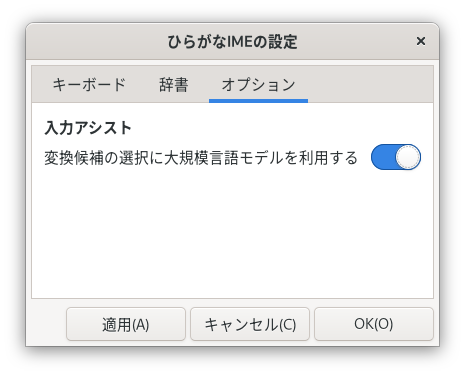
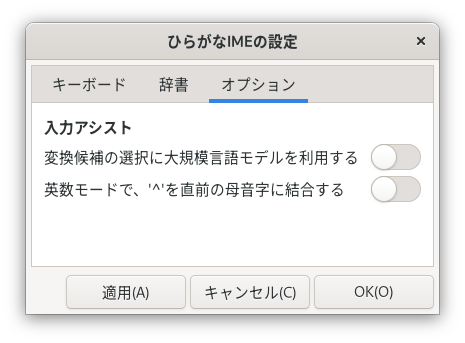
Update screenshots and documents
docs/en/ibus-setup-hiragana_1.png
docs/en/ibus-setup-hiragana_2.png
docs/en/ibus-setup-hiragana_3.png
docs/en/keyboard-menu.png
docs/en/meson.build
docs/en/settings-keyboard.png
docs/ibus-setup-hiragana_1.png
docs/ibus-setup-hiragana_2.png
docs/ibus-setup-hiragana_3.png
docs_md/en/altgr.md
docs_md/en/install.md
docs_md/en/settings.md
docs_md/settings.md

diff --git a/docs_md/settings.md b/docs_md/settings.md
@@ -25,13 +25,13 @@
 
 ![「ひらがなIMEの設定」ウィンドウ](ibus-setup-hiragana_1.png)
 
-　「打うちかた」は、ドロップダウンリストからえらびます。つぎの３種類しゅるいからえらべます。
+　キーボードの打うちかたを「入力にゅうりょく方法ほうほう」ドロップダウンリストからえらびます。つぎの３種類しゅるいからえらべます。
 
-打うちかた | 説明せつめい
+入力にゅうりょく方法ほうほう | 説明せつめい
 ---|---
-[ローマ字じ](roomazi.html#roomazi) | ローマ字じをつかって入力にゅうりょくします。
-[かな(JIS配列はいれつ)](layouts.html#jis) | JISかな配列はいれつをつかって入力にゅうりょくします。
-[<nobr>かな(ニュースティックニー配列はいれつ)</nobr>](layouts.html#new_stickney) | ニュースティックニーかな配列はいれつをつかって入力にゅうりょくします。
+[ローマ字じ](roomazi.html#roomazi) | ローマ字じで入力にゅうりょくします。
+[かな (JIS配列はいれつ)](layouts.html#jis) | JISかな配列はいれつをつかって入力にゅうりょくします。
+[<nobr>かな (ニュースティックニー配列はいれつ)</nobr>](layouts.html#new_stickney) | ニュースティックニーかな配列はいれつをつかって入力にゅうりょくします。
 
 　日本語にほんごの文章ぶんしょうをキーボードで入力にゅうりょくするときは、かな入力にゅうりょくとローマ字じ入力にゅうりょくがよくつかわれています。
 ローマ字じ入力にゅうりょくは小学校しょうがっこう３年生ねんせいから学校がっこうでおそわります。
@@ -46,27 +46,6 @@
 現在げんざいは、このワープロの方式ほうしきをさだめたJIS規格きかくは廃止はいしされています。
 
 - 参考さんこう: 『[JIS X 4063の廃止はいし](https://srad.jp/~yasuoka/journal/518878/)』。
-
-### 英数えいすうモードで、‘^’を直前ちょくぜんの母音ぼいん字じに結合けつごうする {: #combining-circumflex}
-
-　日本語にほんごをローマ字じでかきあらわすときは、このスイッチをオンにすると便利べんりです。
-　英数えいすうモードで<span class='key'>^</span>を入力にゅうりょくしたときに、直前ちょくぜんの文字もじが母音ぼいん字じであれば、母音ぼいんにサーカムフレックスをつけます。
-
-- 例れい: a<span class='key'>^</span> → â
-
-　直前ちょくぜんの文字もじがサーカムフレックスつきの母音ぼいん字じのときに、<span class='key'>^</span>を入力にゅうりょくすると、直前ちょくぜんの文字もじを母音ぼいん字じと単独たんどくのサーカムフレックスにわけます。
-
-- 例れい: â<span class='key'>^</span> → a^
-
-<!--
-### 'raamen'で'ラーメン'に変換へんかんする {: #long-symbol}
-
-　ローマ字じ入力にゅうりょくでは、<span class='key'>-</span>をつかって長音ちょうおん符号ふごう(ー)を入力にゅうりょくする便法べんぽうが使つかわれてきました。
-これは、日本語にほんごキーボードでは「âîûêô」のように入力にゅうりょくするのがむずかしいためです。
-　『'raamen'で'ラーメン'に変換へんかんする』をオンにすると、直前ちょくぜんの母音ぼいん字じをくりかえしたときも長音ちょうおん符号ふごうとみなして処理しょりします。たとえば、「raamen (らあめん)」と入力にゅうりょくして変換へんかんしたときも「ラーメン」という候補こうほがでてくるようになります。
-
-<br>注意ちゅうい: 「ラーメン」を「ra-men」とかくのは、ローマ字じのつづりかたとしてはあやまりです。
--->
 
 ## [辞書じしょ] タブ {: #dictionary}
 
@@ -202,3 +181,14 @@
 - 日ひが<span style="background-color:#d1eaff">昇る</span>
 
 **注意ちゅうい**: あくまで確率かくりつを計算けいさんしているだけなので、じっさいにつかいたい候補こうほがいつもえらばれるわけではありません。この機能きのうばデフォルトではオフになっています。
+
+### 英数えいすうモードで、‘^’を直前ちょくぜんの母音ぼいん字じに結合けつごうする {: #combining-circumflex}
+
+　日本語にほんごをローマ字じでかきあらわすときは、このスイッチをオンにすると便利べんりです。
+　英数えいすうモードで<span class='key'>^</span>を入力にゅうりょくしたときに、直前ちょくぜんの文字もじが母音ぼいん字じであれば、母音ぼいんにサーカムフレックスをつけます。
+
+- 例れい: a<span class='key'>^</span> → â
+
+　直前ちょくぜんの文字もじがサーカムフレックスつきの母音ぼいん字じのときに、<span class='key'>^</span>を入力にゅうりょくすると、直前ちょくぜんの文字もじを母音ぼいん字じと単独たんどくのサーカムフレックスにわけます。
+
+- 例れい: â<span class='key'>^</span> → a^

diff --git a/docs_md/en/settings.md b/docs_md/en/settings.md
@@ -5,9 +5,9 @@
 You can customize the Hiragana IME in the **Hiragana IME Setup** window.
 To open the **Hiragana IME Setup** window, select **Setup** from the keyboard menu in the desktop top bar.
 
-![Keyboard menu](../keyboard-menu.png)
+![Keyboard menu](keyboard-menu.png)
 
-![「Hiragana IME Setup」Window](../ibus-setup-hiragana_1.png)
+![Hiragana IME Setup Window](ibus-setup-hiragana_1.png)
 
 The **Hiragana IME Setup** window has the following three tabs:
 
@@ -21,7 +21,11 @@ The **Hiragana IME Setup** window has the following three tabs:
 
 ## Keyboard Tab {: #layout}
 
-From the **Typing** drop-down list, you can select the Japanese input method from the followings:
+In the **Keyboard** tab, you can select the Japanese input method using the keyboard.
+
+![Hiragana IME Setup Window](ibus-setup-hiragana_1.png)
+
+Choose the Japanese input method you like from the **Input** drop-down list:
 
 Input | Description
 ---|---
@@ -49,23 +53,12 @@ The correct Rōmaji spelling for 'ん' is <kbd>n</kbd>, or <kbd>n</kbd><kbd>'</k
 
 **Hint**: You can also enter 'ん' by pressing the <kbd>Enter</kbd> key after 'n'.
 
-### Combine '^' to the previous vowel character in alphanumeric mode {: #combining-circumflex}
-
-Enable this option if you want to write Japanese in Rōmaji.
-When you type <span class='key'>^</span> after a vowel character in Alphanumeric mode, it is combined into a single character.
-
-- Example: a<span class='key'>^</span> → â
-
-When you type <span class='key'>^</span> after a vowel character combined with a circumflex, it is separated back into two characters.
-
-- Example: â<span class='key'>^</span> → a^
-
 ## Dictionary Tab {: #dictionary}
 
 Choose the dictionary for kana-kanji conversion from the the **Kanji Dictionary** combo box.
 The Hiragana IME offers dictionaries for each school grade level and an edition assembled for grown up.
 
-![Hiragana IME Setup Window](../ibus-setup-hiragana_2.png)
+![Hiragana IME Setup Window](ibus-setup-hiragana_2.png)
 
 The dictionaries for students in 10th grade and above are composed using kanji from the *List of Chinese Characters in Common Use*, known as the *[Jōyō Kanji Table](https://www.bunka.go.jp/kokugo_nihongo/sisaku/joho/joho/kijun/naikaku/kanji/)*, and kanji characters for use in personal names, known as the *[Jinmeiyō Kanji Table](http://www.moj.go.jp/MINJI/minji86.html)*. The grade-specific dictionary is structured according to the table provided by [MEXT](http://www.mext.go.jp/a_menu/shotou/new-cs/1385768.htm).
 
@@ -73,8 +66,8 @@ The dictionaries for students in 10th grade and above are composed using kanji f
 
 Dictionary | Description
 --|--
-Okurigana: general | Follow the main rules strictly.
-Okurigana: general + permissive | Permit the use of widely used variations.
+Okurigana: strict | Follow the main rules strictly.
+Okurigana: permissive | Permit the use of widely used variations.
 
 For example, the ‘10th+ grade (Okurigana: general + permissible)’ dictionary allows conversions like ‘<ruby>落<rp>(</rp><rt>おと</rt><rp>)</rp></ruby>す’.
 
@@ -184,7 +177,7 @@ During the conversion of homonyms and words with shortened readings, the frequen
 
 You can customize the input assistance feature.
 
-![「Hiragana IME Setup」Window](../ibus-setup-hiragana_3.png)
+![「Hiragana IME Setup」Window](ibus-setup-hiragana_3.png)
 
 ### Use LLM for candidate selection {: #llm}
 
@@ -197,3 +190,14 @@ For example, when converting ‘のぼる’, the pre-selected candidate changes
 - 日が<span style="background-color:#d1eaff">昇る</span>
 
 **Note**: Since this is merely based on a probability calculation, the desired candidate may not always be chosen. This feature is disabled by default because it requires a relatively large amount of computational power.
+
+### Combine '^' to the previous vowel character in alphanumeric mode {: #combining-circumflex}
+
+Enable this option if you want to write Japanese in Rōmaji.
+When you type <span class='key'>^</span> after a vowel character in Alphanumeric mode, it is combined into a single character.
+
+- Example: a<span class='key'>^</span> → â
+
+When you type <span class='key'>^</span> after a vowel character combined with a circumflex, it is separated back into two characters.
+
+- Example: â<span class='key'>^</span> → a^

diff --git a/docs_md/en/install.md b/docs_md/en/install.md
@@ -86,7 +86,7 @@ On Fedora and Ubuntu, GNOME is the default desktop environment.
 The Hiragana IME currently works best in GNOME.
 If you're using GNOME, open **Settings** and add **Japanese (Hiragana IME)** to **Input Sources** in the **Keyboard** pane.
 
-![Settings—Keyboard](../settings-keyboard.png)
+![Settings—Keyboard](settings-keyboard.png)
 
 ### Instructions for other desktops
 
@@ -103,7 +103,7 @@ In IBus, you can switch between multiple input methods and use them.
 To enable Hiragana IME, open the keyboard menu of the desktop shell by clicking the current input method logo like <nobr>**ja**</nobr>，<nobr>**あ**</nobr> inside the top bar.
 Then select **Japanese (Hiragana IME)**.
 
-![Keyboard menu](../keyboard-menu.png)
+![Keyboard menu](keyboard-menu.png)
 
 As for the keyboard layout, Hiragana IME uses the previously selected keyboard layout.
 

diff --git a/docs_md/en/altgr.md b/docs_md/en/altgr.md
@@ -12,7 +12,7 @@ In Japan, <span class='key'>AltGr</span>  layers are not widely used because the
 
 In GNOME desktop, open **GNOME Settings**, then select **Keyboard** from the side bar. In the **Keyboard** pane, look for **Special Character Entry** and set the **Alternate Character Key** to **Right Alt**.
 
-![Settings - Keyboard](../settings-keyboard.png)
+![Settings - Keyboard](settings-keyboard.png)
 
 ## Entering Characters and Symbols on the <span class='key'>AltGr</span> Layers  {: #altgr-characters}
 
